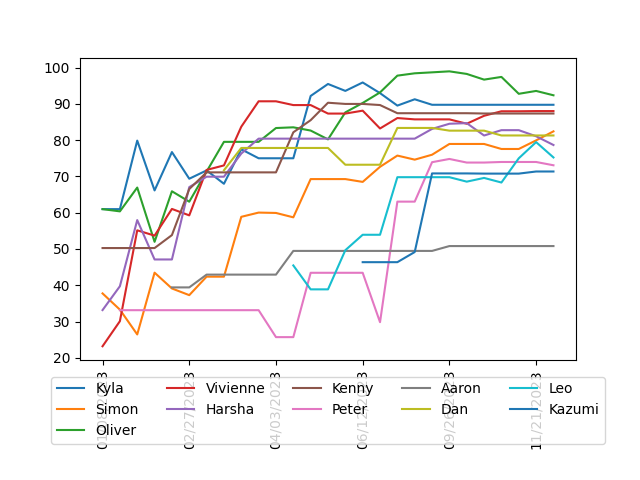
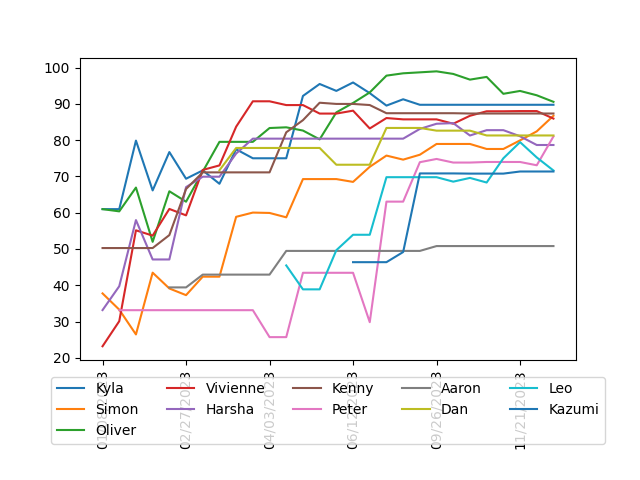
update rankings

diff --git a/README.md b/README.md
@@ -5,20 +5,21 @@
 
 | Player | ELO | Wins | Losses | Win % | Best Game |
 | --- | --- | --- | --- | --- | --- |
-| Oliver | 100.50 | 51 | 42 | 55% | Secret Hitler |
+| Oliver | 99.95 | 53 | 44 | 55% | Secret Hitler |
 | Kyla | 96.88 | 37 | 32 | 54% | Cash n Guns |
+| Simon | 91.11 | 32 | 36 | 47% | Avalon |
 | Kenny | 90.46 | 22 | 22 | 50% | Cash n Guns |
-| Vivienne | 90.01 | 35 | 25 | 58% | Secret Hitler |
 | Nikiny | 88.92 | 6 | 12 | 33% | Cash n Guns |
-| Simon | 84.12 | 31 | 35 | 47% | Avalon |
+| Vivienne | 88.79 | 35 | 28 | 56% | Codenames |
+| Peter | 86.25 | 13 | 25 | 34% | Cash n Guns |
 | Dan | 81.29 | 8 | 15 | 35% | Masquerade |
-| Leo | 79.65 | 17 | 23 | 42% | Clank |
 | Harsha | 79.54 | 24 | 28 | 46% | Secret Hitler |
 | Annika | 78.73 | 3 | 1 | 75% | Avalon |
+| Leo | 78.06 | 18 | 26 | 41% | Clank |
 | Sincere | 77.48 | 8 | 10 | 44% | Avalon |
 | Jelita | 77.39 | 6 | 2 | 75% | Secret Hitler |
-| Peter | 75.75 | 12 | 22 | 35% | Love Letter |
-| Siri | 71.98 | 1 | 8 | 11% | Love Letter |
+| Siri | 75.02 | 2 | 9 | 18% | Love Letter |
+| Abhi | 74.64 | 4 | 9 | 31% | Cash n Guns |
 | Kazumi | 71.36 | 6 | 16 | 27% | Love Letter |
 | Karen | 69.00 | 2 | 1 | 67% | Codenames |
 | Justin | 67.16 | 1 | 4 | 20% | Love Letter |
@@ -33,7 +34,6 @@
 | Angela | 49.56 | 3 | 5 | 38% | Bang |
 | Jason | 47.52 | 3 | 4 | 43% | Wavelength |
 | Kai | 47.09 | 5 | 7 | 42% | Secret Hitler |
-| Abhi | 46.06 | 4 | 5 | 44% | Wavelength |
 | Rayaan | 44.95 | 1 | 1 | 50% | Secret Hitler |
 | Lucille | 44.47 | 1 | 1 | 50% | Bang |
 | Fred | 43.59 | 1 | 1 | 50% | Codenames |
@@ -43,7 +43,6 @@
 | Joyce | 41.20 | 1 | 5 | 17% | Bang |
 | Ellabelle | 38.67 | 1 | 7 | 12% | Avalon |
 | Jan | 34.21 | 2 | 4 | 33% | Codenames |
-| Julie | 28.61 | 1 | 4 | 20% | Avalon |
 | Agnes | 27.82 | 1 | 4 | 20% | Avalon |
 | Lisa | 27.58 | 0 | 2 | 0% | Secret Hitler |
 | Bryan | 25.65 | 1 | 4 | 20% | Avalon |
@@ -51,6 +50,7 @@
 | Dorine | 24.58 | 3 | 7 | 30% | Avalon |
 | Ashley | 21.75 | 0 | 2 | 0% | Secret Hitler |
 | Sandy | 21.08 | 0 | 2 | 0% | Codenames |
+| Julie | 19.56 | 1 | 6 | 14% | Avalon |
 | Vivian | 18.94 | 0 | 2 | 0% | Secret Hitler |
 | Louise | 15.50 | 0 | 5 | 0% | Incan Gold |
 | Shirley | 8.62 | 0 | 4 | 0% | Wavelength |
@@ -64,33 +64,34 @@
 
 | Player | ELO | Wins | Losses | Win % |
 | --- | --- | --- | --- | --- |
-| Oliver | 107.05  | 16 | 4 | 80% |
+| Oliver | 110.69  | 17 | 4 | 81% |
 | Kyla | 79.03  | 12 | 7 | 63% |
-| Vivienne | 78.18  | 15 | 8 | 65% |
+| Vivienne | 75.95  | 15 | 9 | 62% |
 | Harsha | 71.08  | 12 | 7 | 63% |
 | Kenny | 67.53  | 7 | 3 | 70% |
 | Queenie | 66.74  | 5 | 2 | 71% |
 | Jelita | 65.32  | 4 | 0 | 100% |
+| Simon | 55.75  | 10 | 11 | 48% |
 | Dan | 52.40  | 2 | 2 | 50% |
 | Calvin | 52.40  | 3 | 1 | 75% |
-| Simon | 52.33  | 9 | 11 | 45% |
 | Dari | 46.72  | 2 | 2 | 50% |
 | Rob | 44.11  | 1 | 1 | 50% |
-| Abhi | 42.83  | 1 | 0 | 100% |
+| Siri | 43.56  | 2 | 1 | 67% |
 | Jason | 42.83  | 1 | 0 | 100% |
 | Aaron | 41.58  | 2 | 1 | 67% |
 | Nikiny | 41.53  | 3 | 2 | 60% |
-| Leo | 41.13  | 3 | 5 | 38% |
 | Kai | 41.02  | 2 | 2 | 50% |
 | Sincere | 40.53  | 1 | 1 | 50% |
-| Peter | 40.18  | 4 | 4 | 50% |
 | Rayaan | 40.13  | 1 | 1 | 50% |
 | Yoyo | 38.85  | 1 | 1 | 50% |
+| Abhi | 38.24  | 1 | 1 | 50% |
+| Leo | 37.52  | 3 | 6 | 33% |
+| Peter | 36.73  | 4 | 5 | 44% |
 | Gillian | 36.24  | 1 | 1 | 50% |
 | PeterChau | 35.63  | 1 | 1 | 50% |
-| Siri | 35.63  | 1 | 1 | 50% |
 | Frances | 30.73  | 1 | 1 | 50% |
 | Lisa | 28.74  | 0 | 2 | 0% |
+| Julie | 28.54  | 0 | 1 | 0% |
 | Karen | 28.14  | 0 | 1 | 0% |
 | Kazumi | 28.00  | 0 | 2 | 0% |
 | Vivian | 27.44  | 0 | 1 | 0% |
@@ -266,15 +267,18 @@
 
 | Player | ELO | Wins | Losses | Win % |
 | --- | --- | --- | --- | --- |
-| Oliver | 64.63  | 2 | 3 | 40% |
+| Oliver | 70.80  | 3 | 4 | 43% |
+| Leo | 59.76  | 1 | 5 | 17% |
 | PeterChau | 54.41  | 1 | 1 | 50% |
 | Kenny | 54.01  | 1 | 2 | 33% |
 | Dan | 53.55  | 1 | 1 | 50% |
-| Leo | 50.55  | 0 | 4 | 0% |
 | Kazumi | 44.38  | 0 | 2 | 0% |
 | Siri | 44.38  | 0 | 2 | 0% |
 | Gillian | 44.38  | 0 | 2 | 0% |
 | Kyla | 44.04  | 0 | 2 | 0% |
+| Abhi | 42.98  | 0 | 2 | 0% |
+| Peter | 42.98  | 0 | 2 | 0% |
+| Vivienne | 42.98  | 0 | 2 | 0% |
 | Queenie | 36.91  | 0 | 1 | 0% |
 | Aaron | 36.91  | 0 | 1 | 0% |
 
@@ -316,12 +320,16 @@
 | Player | ELO | Wins | Losses | Win % |
 | --- | --- | --- | --- | --- |
 | Nikiny | 92.66  | 1 | 0 | 100% |
+| Peter | 86.94  | 1 | 0 | 100% |
 | Kyla | 80.17  | 0 | 1 | 0% |
+| Simon | 78.60  | 0 | 2 | 0% |
 | Kenny | 69.66  | 0 | 1 | 0% |
-| Simon | 59.54  | 0 | 1 | 0% |
-| Oliver | 48.61  | 0 | 1 | 0% |
+| Abhi | 64.17  | 0 | 1 | 0% |
+| Oliver | 58.40  | 0 | 2 | 0% |
+| Siri | 41.88  | 0 | 1 | 0% |
 | Calvin | 34.97  | 0 | 1 | 0% |
-| Leo | 11.98  | 0 | 1 | 0% |
+| Leo | 23.29  | 0 | 2 | 0% |
+| Julie | 6.09  | 0 | 1 | 0% |
 
 ### Masquerade
 
